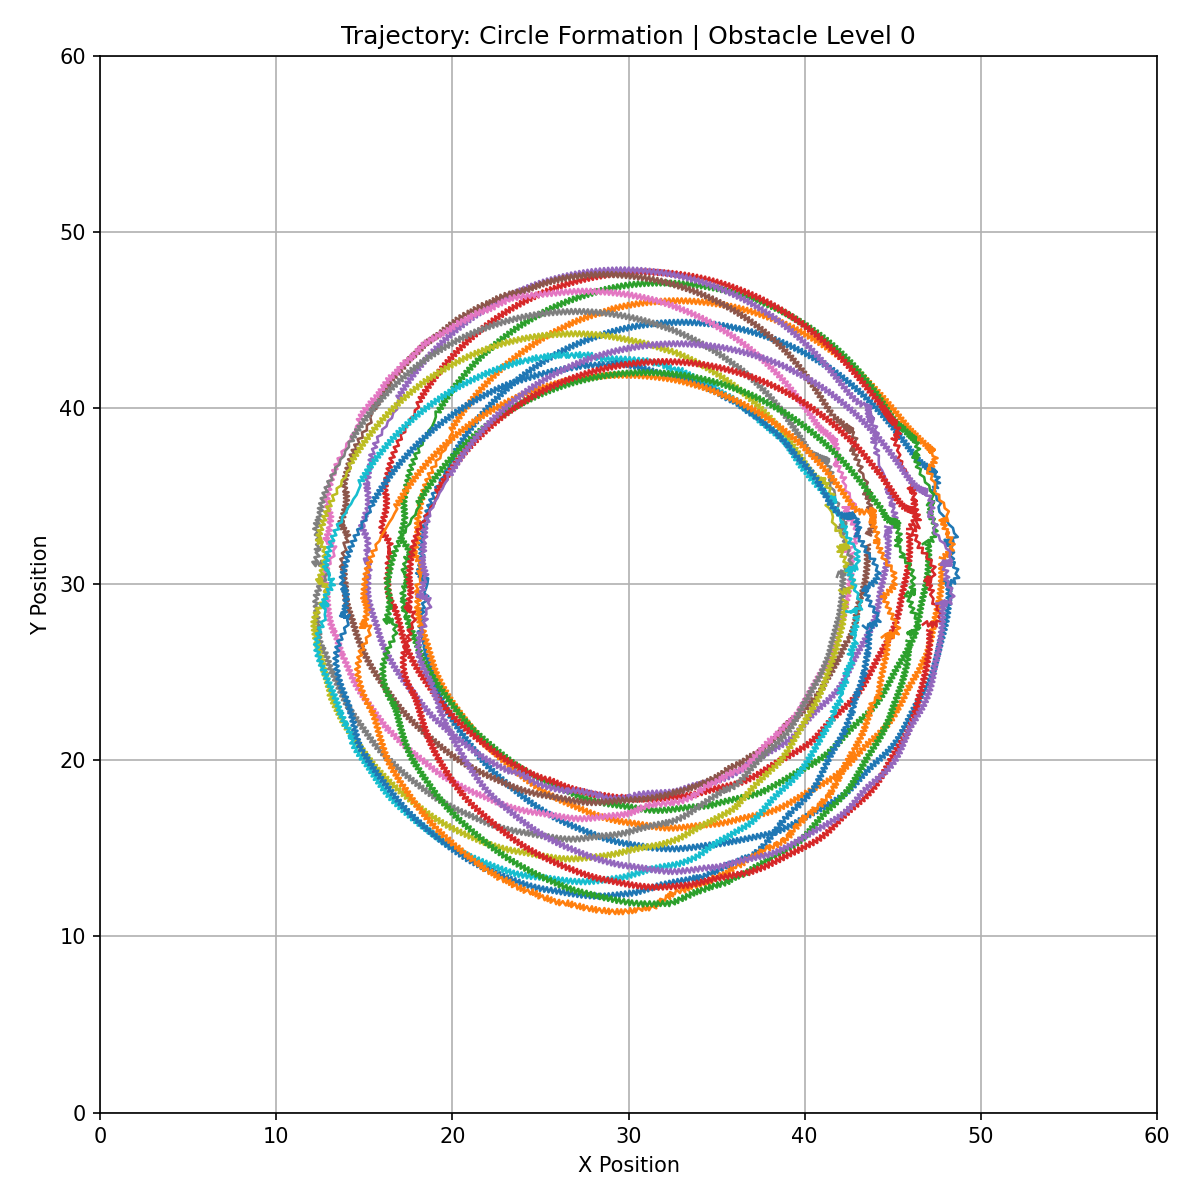
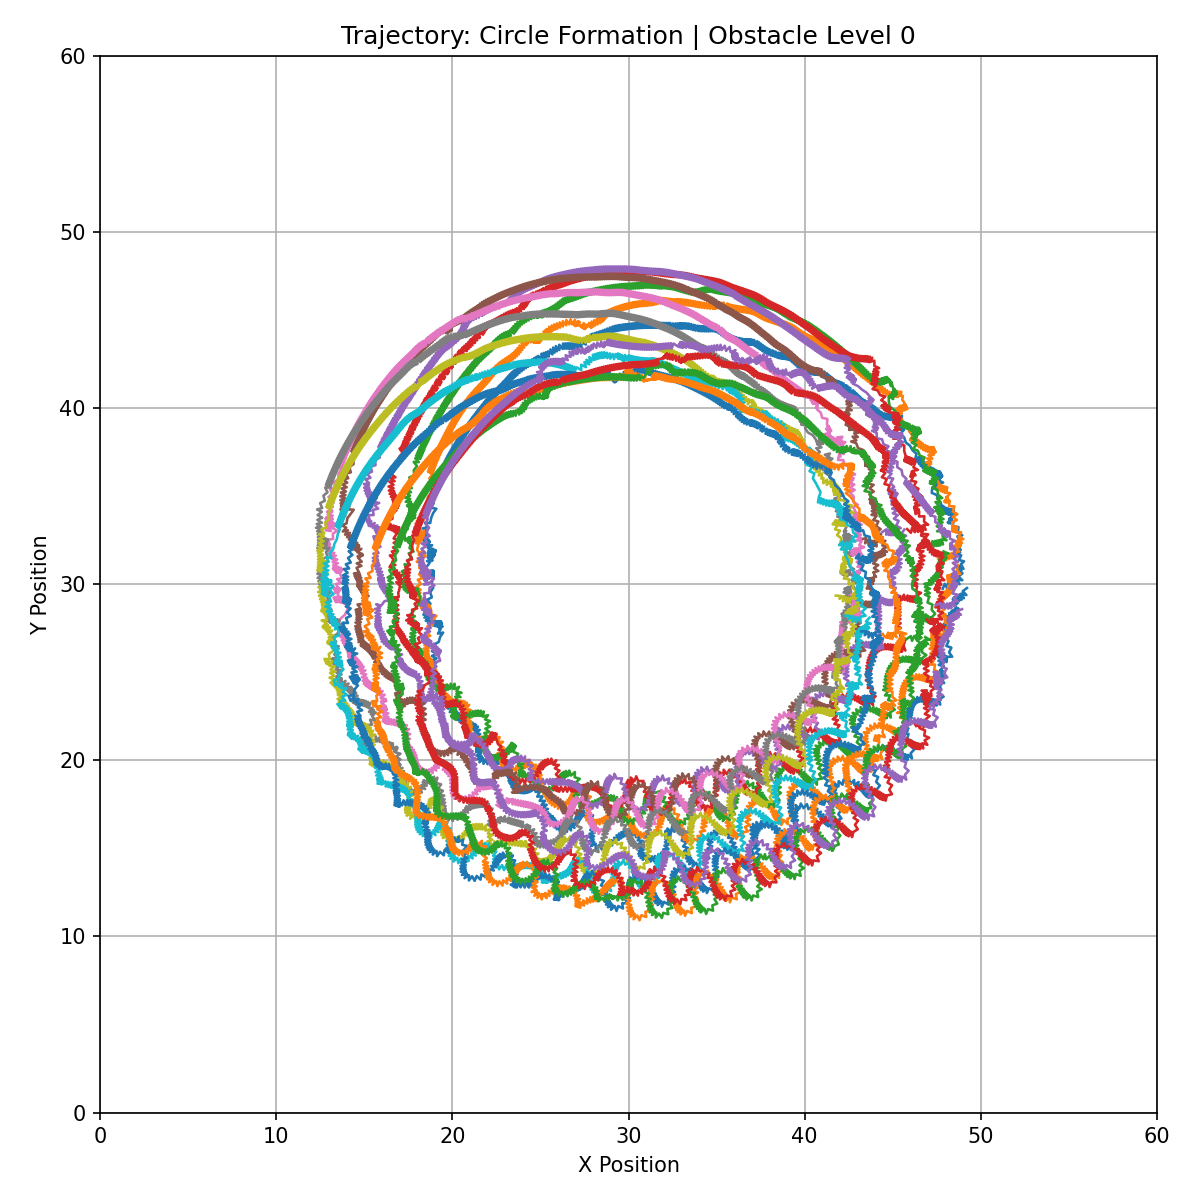
Adding trajectory plots

Changed region(s): [[0.2467, 0.2158, 0.8017, 0.7708]]

diff --git a/swarm_rl/Final/trajectory_plots.py b/swarm_rl/Final/trajectory_plots.py
@@ -204,7 +204,8 @@ def main():
                 formation_type,
                 obstacle_level,
                 num_robots=ocm.num_robots,
-                num_steps=ocm.num_steps,  # or use a shorter run like 400 if you prefer
+                # num_steps=ocm.num_steps,  # or use a shorter run like 400 if you prefer
+                num_steps=1600,  # or use a shorter run like 400 if you prefer
                 world_width_=ocm.world_width,
                 robot_max_speed_=ocm.robot_max_speed,
                 world_boundary_tolerance_=ocm.world_boundary_tolerance,
